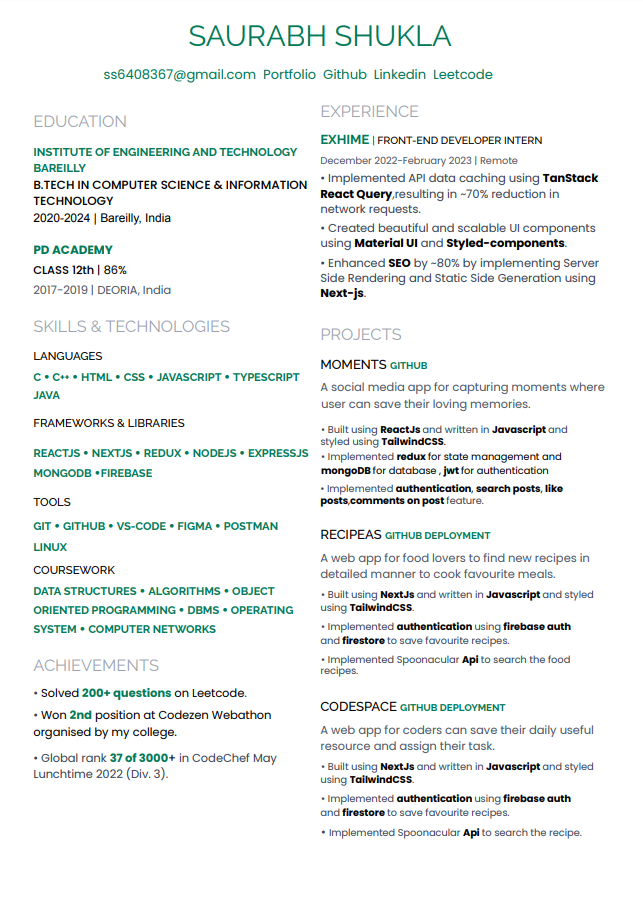
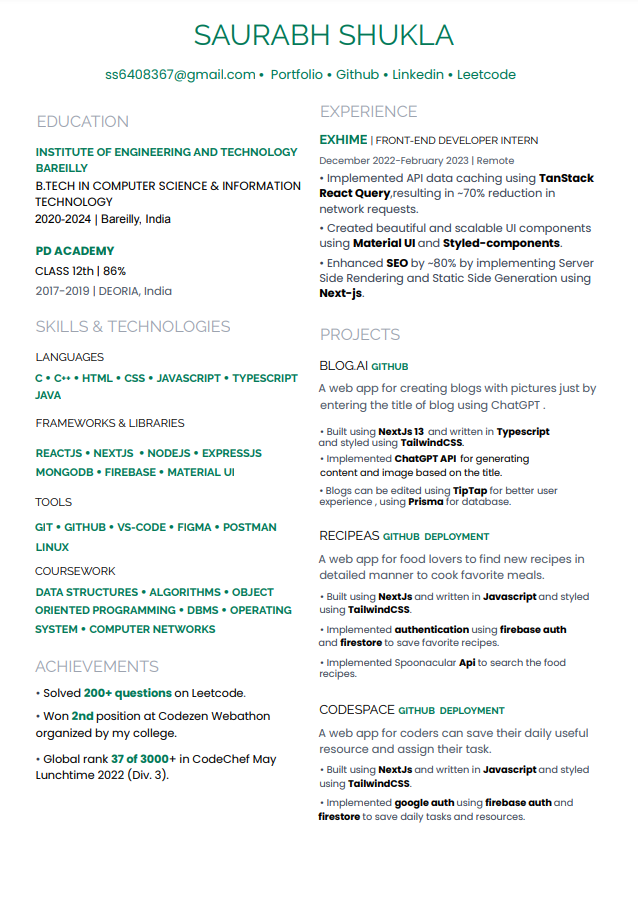
edited projects link

Changed region(s): [[0.0298, 0.0, 0.953, 0.9354]]

diff --git a/components/Projects/Projects.tsx b/components/Projects/Projects.tsx
@@ -29,15 +29,15 @@ const Projects = () => {
       </Typography>
       <ProjectWrapper>
         <ProjectsWrapper>
-          <ProjectImg src="./" alt="Moment (in development)" />
+          <ProjectImg src="./blogAi.png" alt="Blog.Ai (in development)" />
           <ProjectSection>
-            <ProjectName>Moments (MERN app) (currently working)</ProjectName>
+            <ProjectName>Blog.Ai (NextJs app) (currently working)</ProjectName>
             <ProjectDetail>
-              A social media app for capturing moments where user can save their
-              loving memories.
+              A web app for creating blogs with pictures just by entering the
+              title of blog using ChatGPT .
             </ProjectDetail>
             <ProjectLink>
-              <ProjectGithub href="https://github.com/skinnyiam/moments">
+              <ProjectGithub href="https://github.com/skinnyiam/Blog.Ai">
                 Github
               </ProjectGithub>
               {/* <ProjectDeployment href="/">Website</ProjectDeployment> */}

diff --git a/components/Resume/Resume.tsx b/components/Resume/Resume.tsx
@@ -18,7 +18,7 @@ const Resume = () => {
         Resume
       </Typography>
       <ResumeWrapper>
-        <ViewButton href="https://drive.google.com/file/d/1M674VU_s7Lg3_OEyXyTh7YRvg5SBZq2g/view?usp=sharing">
+        <ViewButton href="https://drive.google.com/file/d/1SG_xyuSTpDkE8Ewt-BMSWnget4M0poWP/view?usp=sharing">
           View Resume
         </ViewButton>
         <ResumeImg src="/resume.png" />

diff --git a/components/Experience/Experience.tsx b/components/Experience/Experience.tsx
@@ -34,7 +34,7 @@ const Experience = () => {
               paddingLeft: "1rem",
             }}
           >
-            Front-end Developer Intern from December 2022 to Current{" "}
+            Front-end Developer Intern from December 2022 to February 2023{" "}
           </span>
         </CompanyName>
         <WorkDone>
